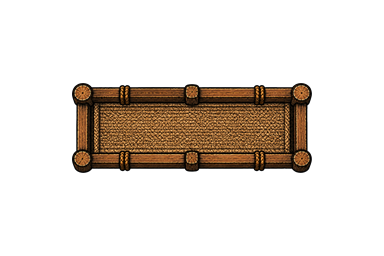
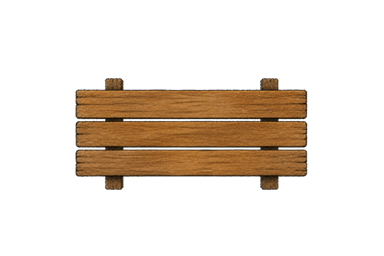
Revised benches.

Changed region(s): [[0.1875, 0.2812, 0.8125, 0.75]]

diff --git a/plans/days-at-three-branches/stages/5-3-visual-refinement.md b/plans/days-at-three-branches/stages/5-3-visual-refinement.md
@@ -24,6 +24,27 @@ After that direction, make only the smallest art or integration changes that clo
 
 Use image generation as the primary correction loop for raster art. When generated geometry, projection, material colour, or alpha is wrong, regenerate the affected asset with a tighter prompt before reaching for pixel postprocessing. Accept small losses of decorative detail when regeneration produces a clearer silhouette, correct projection, and a more coherent material family. Keep any crop, resize, alpha-normalization, atlas assembly, or diagnostic scripts used along the way. Those scripts must remain reusable and easy to inspect, but they do not become a second art-authoring pipeline and must not cosmetically redraw generated assets.
 
+## Concept-first raster prompting contract
+
+Use this reference hierarchy for every raster comparison:
+
+1. The approved Hearthside Ink scene controls world integration, palette family, value density, and fitted-view hierarchy.
+2. A tight crop of the approved conceptual subject controls silhouette character, mark making, material restraint, and identity.
+3. Material crops control physical surface behaviour, including timber wash, ink density, value separation, pooling, dry edges, and broken lines.
+4. Existing runtime art is secondary continuity evidence only. It must not override the approved concept or material references and may be revised when it conflicts with them.
+
+The stable Hearthside Ink language is physical hand-inked drawing with controlled hand tint on a smooth illustration surface. Use irregular translucent umber or charcoal ink with changing pressure, broken passages, overlaps, dry-brush taper, and occasional pooled seams. Establish form with two or three broad, clearly separated wash values before small marks. Washes retain visible brush decisions, selective dry edges, pooled joints, and quiet unmarked areas without relying on paper absorption, bloom, granulation, or fibrous surface noise. Timber remains restrained but has enough warm colour and local value separation to survive against similarly coloured terrain. Grain is sparse, uneven, nonparallel, and allowed to disappear. Reserve the darkest values for selected joints, undersides, and seams. Preserve exact gameplay registration and overhead projection while letting the visible silhouette retain hand-drawn irregularity.
+
+Avoid clean vector contours, uniform digital fills, ruler-straight visible edges, sticker-black outlines, smooth airbrush gradients, PBR gloss, repeated procedural grain, evenly distributed texture, high-frequency scratches, and mobile-icon polish.
+
+A controlled style comparison keeps subject geometry, projection, canvas, crop, scale, placement, palette family, proofing field, and exclusions fixed. Each named variant changes one art-language hypothesis only, such as line-led, balanced, or wash-led. Do not vary construction, size, prop lore, or decoration inside a style-only experiment.
+
+Proof images may use a flat neutral field so wash behaviour can be judged, but they do not use paper texture or tint the object through simulated absorption. The proof field is never runtime art. Promoted sources require clean alpha outside and through transparent gaps, cleared RGB in fully transparent pixels, no baked ground or cast shadow, and opaque solid materials except for intentional antialiasing or approved glow. If a tighter regeneration still returns a baked field, retain a reusable alpha-normalization script. It may remove the known proof background, resize, and restore registration, but it may not redraw or cosmetically restyle the asset.
+
+Derive secondary states from the selected neutral or base construction. Preserve silhouette, projection, material family, scale, and registration. Add only the state cue needed for gameplay readability at runtime size. The cue may be proportionally bold when the prop is small, but it must not enlarge the prop or change its gameplay footprint.
+
+Every comparison records a stable prompt ID, variant name, exact sent prompt, input images and their roles, output dimensions, proof or production status, and selection result. Retain the selected source provenance and reusable crop, resize, alpha, atlas, and diagnostic scripts. Remove rejected raster outputs after selection.
+
 ## Owner approvals
 
 Gate A is a concise asset-direction approval. Show the complete proposed asset treatment at its intended viewing role, including the details that must survive fitted, middle, and close views. The owner approves the visual direction before it becomes runtime art.
@@ -78,7 +99,9 @@ The prop language is old magical infrastructure kept alive by rough, competent v
 
 The owner approved all three magic-punk stall constructions and their matching open states. All three use the same medium warm timber family, including construction C in both states. The renderer assigns a construction once from the prop ID and preserves it across state, facing, reconciliation, and art reinstall. Numeric suffixes cycle A, B, C by modulo three (`stall_0` uses A, `stall_1` uses B, `stall_2` uses C, `stall_3` uses A); IDs without a numeric suffix use A. State selects only the matching open or closed frame. All six frames remain ordinary lower-layer art on the 384 by 256 props grid. Their configured source cells, compiled atlas, and source provenance are promoted together as one art change. The stall texture's front reads the opposite way from the recorded facing, so the renderer draws each stall sprite half a turn round from where it stands.
 
-The selected lantern becomes the qualitative timber reference for all interactive props and the market crate. Regenerate full-colour art rather than tinting it at runtime, and use no wood mask, shader, numeric colour tolerance, or colour snapshot test. Continue one family at a time in this order: bench, shrine, board, plot, hearth, repair bench, pump, then bell. Generate three aesthetically distinct alternatives for each neutral or base state and present them without runtime integration. The owner selects or redirects one treatment before the remaining states are derived from it. A family may receive a new silhouette and construction when that improves its visual role, but its gameplay footprint, state meaning, registration, and projection remain fixed. Grain, wear, and light-to-dark proportions may vary, but the props do not form separate blond, orange, gray, or dark-brown timber families. Buildings and pines remain outside this pass. The board stays on its 384 by 256 canvas and keeps its interim scale override until its later re-authoring.
+The approved concept and material board define the art language for all interactive props and the market crate. The selected lantern supplies secondary production continuity for timber tone and magic-punk material accents only when it agrees with those primary references. Regenerate full-colour art rather than tinting it at runtime, and use no wood mask, shader, numeric colour tolerance, or colour snapshot test. Continue one family at a time in this order: bench, shrine, board, plot, hearth, repair bench, pump, then bell. For each neutral or base state, generate three alternatives with fixed construction and one named mark-making hypothesis each, then present them without runtime integration. The owner selects or redirects one treatment before the remaining states are derived from it. A later construction study may change silhouette only when the owner explicitly makes construction the experiment variable. Gameplay footprint, state meaning, registration, and projection remain fixed. Grain, wear, and light-to-dark proportions may vary, but the props do not form separate blond, orange, gray, or dark-brown timber families. Buildings and pines remain outside this pass. The board stays on its 384 by 256 canvas and keeps its interim scale override until its later re-authoring.
+
+On 2026-08-22, the owner made the Hearthside Ink concept and material board the primary style authorities and rejected bench comparison 1 because it varied plank construction while missing the concept's ink-and-wash language. [Bench comparison 2](../art/bench-comparison-2/prompts.md) excluded the lantern, stalls, runtime props, and comparison 1 from the controlled style experiment. It held one exact-overhead three-plank construction fixed and varied only line-led, balanced, and wash-led mark making against the direct conceptual bench crop and isolated timber and ink references. The owner selected balanced variant B, then requested clearer colour without the absorbent-paper treatment. The revised empty and occupied states use the same small registered bench, clearer warm cedar values, controlled hand tint, and no bloom, granulation, or paper haze. A larger indigo-violet cloth supplies the readable occupied cue at runtime size. Their cleaned 384 by 256 sources are in the working props atlas for the later complete-prop Gate A review.
 
 The lantern and bell use an exact 90 degree overhead projection, including bases that read entirely from above. Both keep their one-cell gameplay footprint, state meanings, and shared timber, indigo iron, bone ceramic, and sparse gilt material tones. The lantern uses its ordinary centered prop contract. The bell keeps registered foundation, fixed-gantry, and moving-bell roles.
 
